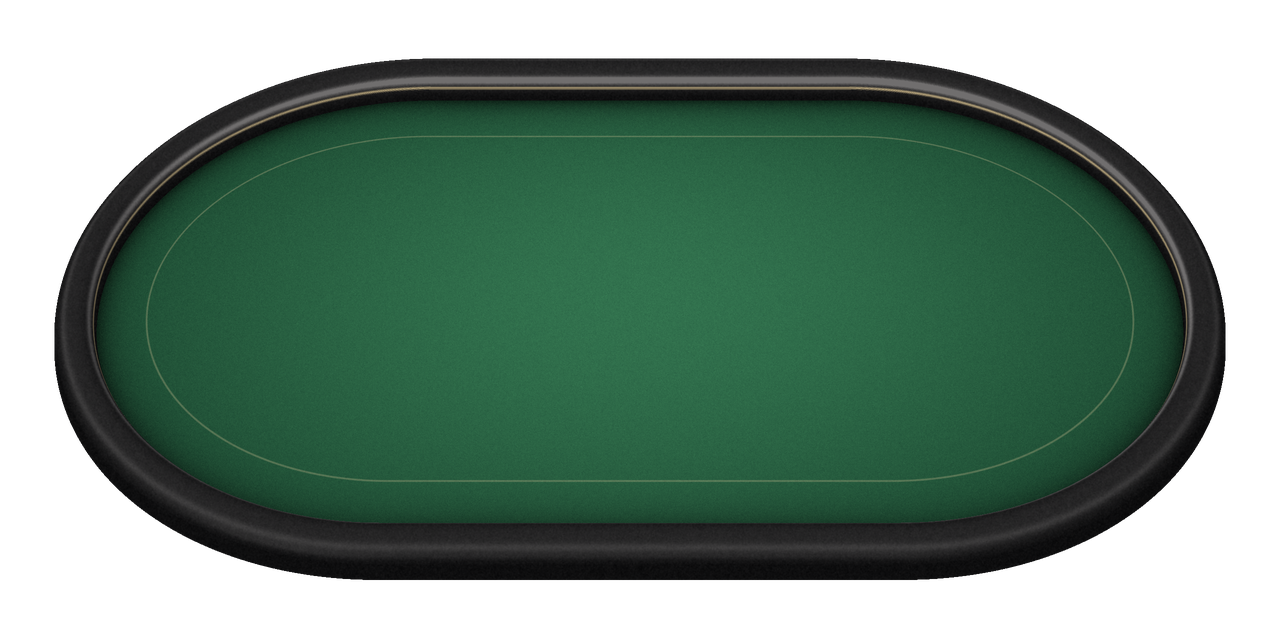
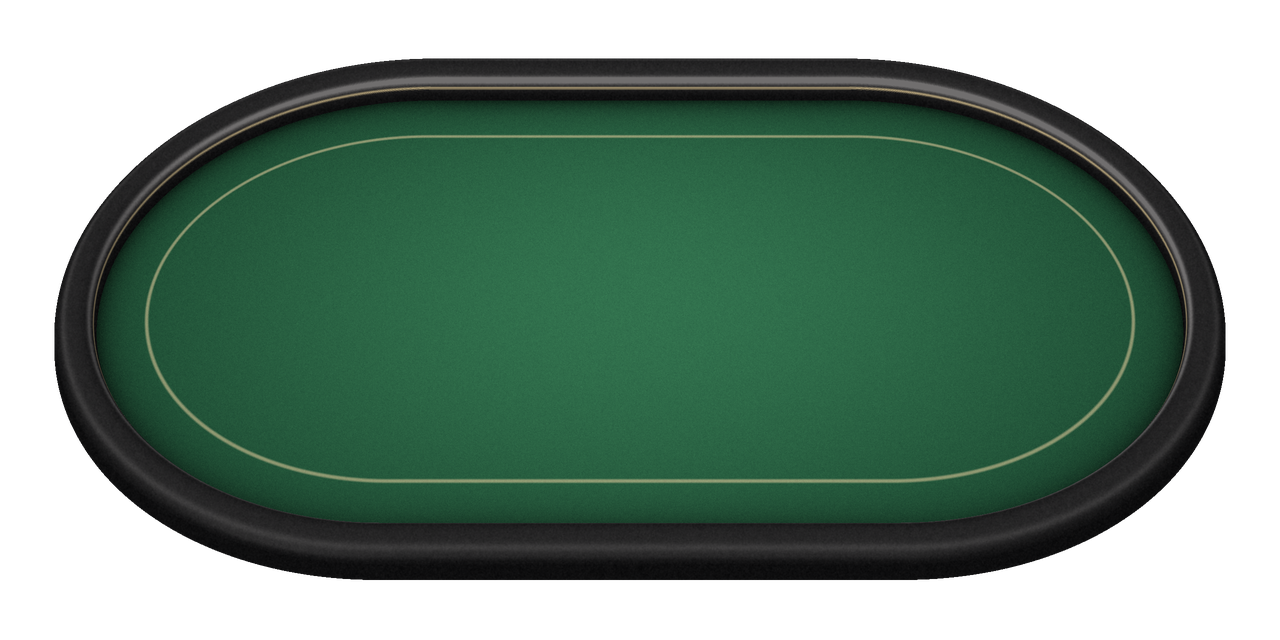
feat(lab): ClubGG-style cards, standout seats and a clear felt line
From Hemal's review of the Salon preview.

Cards take ClubGG's layout on the Salon's ivory stock: a tall condensed
rank in Oswald with a small suit under it and the suit again, large, in
the far corner, so a card reads by its shape from across the table. Board
cards are a size up on desktop.

Seats stand off the table instead of lying on it. The plate is a step
lighter than the rail, ringed in black before its champagne edge, and
throws a long shadow; the monogram becomes a bezelled medallion breaking
out of the plate's end, and the card backs are larger and edged.

The Salon render prints the betting line wider and stronger, so the
felt carries a clear champagne outline like ClubGG's. The house skin is
unchanged.

diff --git a/app/lab/salon/salon.module.css b/app/lab/salon/salon.module.css
@@ -25,6 +25,7 @@
 
   --salon-display: var(--font-salon-display), 'Bodoni Moda', Georgia, serif;
   --salon-sans: var(--font-salon-sans), 'Hanken Grotesk', system-ui, sans-serif;
+  --salon-index: var(--font-salon-index), 'Oswald', 'Arial Narrow', sans-serif;
 
   position: relative;
   isolation: isolate;
@@ -393,54 +394,73 @@
     inset 0 0 0 4px oklch(0.6 0.07 80 / 0.5);
 }
 
+/*
+ * A seat stands off the table rather than lying on it.
+ *
+ * The plate is a step lighter than the rail it sits on, ringed in black before
+ * the champagne edge so it separates from the leather, and carries a long,
+ * soft shadow. The monogram is a medallion that breaks out of the plate's left
+ * end, the way a portrait does in ClubGG, so the player is the first shape you
+ * find at every seat.
+ */
 .plate {
   position: relative;
   z-index: 1;
   display: flex;
-  min-width: 136px;
+  min-width: 132px;
   align-items: center;
-  gap: 10px;
-  padding: 5px 18px 5px 5px;
-  border: 1px solid var(--salon-hairline);
-  border-radius: 3px;
-  background: linear-gradient(180deg, oklch(0.227 0.006 157), oklch(0.166 0.004 165));
+  gap: 8px;
+  margin-left: 22px;
+  padding: 7px 16px 7px 34px;
+  border: 1px solid oklch(0.789 0.066 86 / 0.5);
+  border-radius: 4px;
+  background: linear-gradient(180deg, oklch(0.31 0.008 157), oklch(0.2 0.006 160));
   box-shadow:
-    0 10px 24px -10px oklch(0 0 0 / 0.8),
-    inset 0 1px 0 oklch(0.896 0.044 90 / 0.08);
+    0 0 0 1px oklch(0 0 0 / 0.65),
+    0 16px 30px -8px oklch(0 0 0 / 0.95),
+    0 4px 10px -2px oklch(0 0 0 / 0.6),
+    inset 0 1px 0 oklch(0.896 0.044 90 / 0.18);
 }
 
 .plateActing {
-  border-color: var(--salon-gold);
+  border-color: var(--salon-gold-lit);
   box-shadow:
-    0 0 0 4px oklch(0.789 0.066 86 / 0.13),
-    0 12px 28px -10px oklch(0 0 0 / 0.85),
-    inset 0 1px 0 oklch(0.896 0.044 90 / 0.14);
+    0 0 0 1px oklch(0 0 0 / 0.65),
+    0 0 0 5px oklch(0.789 0.066 86 / 0.22),
+    0 0 26px 2px oklch(0.789 0.066 86 / 0.28),
+    0 16px 30px -8px oklch(0 0 0 / 0.95),
+    inset 0 1px 0 oklch(0.896 0.044 90 / 0.24);
 }
 
-/* A monogram struck on dark enamel, inside a double champagne ring. */
+/* A monogram struck on dark enamel, in a champagne bezel, off the plate's end. */
 .monogram {
+  position: absolute;
+  top: 50%;
+  left: -24px;
   display: grid;
-  width: 38px;
-  height: 38px;
-  flex-shrink: 0;
+  width: 50px;
+  height: 50px;
   place-items: center;
   border-radius: 50%;
+  translate: 0 -50%;
   font-family: var(--salon-display);
-  font-size: 18px;
+  font-size: 22px;
   font-style: italic;
   color: var(--salon-gold-lit);
-  background: radial-gradient(circle at 50% 35%, oklch(0.299 0.01 151), oklch(0.189 0.004 165));
+  background: radial-gradient(circle at 50% 32%, oklch(0.34 0.012 151), oklch(0.18 0.004 165));
   box-shadow:
-    inset 0 0 0 1px oklch(0.789 0.066 86 / 0.6),
-    inset 0 0 0 3px oklch(0.189 0.004 165),
-    inset 0 0 0 4px oklch(0.789 0.066 86 / 0.22);
+    0 0 0 1px oklch(0 0 0 / 0.7),
+    0 0 0 3px oklch(0.82 0.06 88),
+    0 0 0 4px oklch(0 0 0 / 0.5),
+    0 10px 20px -4px oklch(0 0 0 / 0.9),
+    inset 0 2px 4px oklch(1 0 0 / 0.12);
 }
 
 .name {
   font-size: 13px;
-  font-weight: 500;
+  font-weight: 600;
   line-height: 1.15;
-  color: var(--salon-ink);
+  color: oklch(0.975 0.01 86);
 }
 
 .out {
@@ -451,9 +471,9 @@
 /* Time to act, as a hairline draining along the foot of the plate. */
 .timer {
   position: absolute;
-  right: 4px;
+  right: 5px;
   bottom: -1px;
-  left: 4px;
+  left: 30px;
   height: 2px;
   background: oklch(0.789 0.066 86 / 0.18);
 }
@@ -496,7 +516,8 @@
 
 .callout-left {
   top: 50%;
-  right: calc(100% + 10px);
+  /* Clear of the medallion that hangs off the plate's left end. */
+  right: calc(100% + 34px);
   translate: 0 -50%;
 }
 
@@ -524,96 +545,110 @@
 
 .cardBack {
   display: block;
-  width: 32px;
-  height: 45px;
-  border: 1px solid oklch(0.789 0.066 86 / 0.6);
-  border-radius: 3px;
+  width: 36px;
+  height: 51px;
+  border: 1px solid oklch(0.82 0.06 88 / 0.75);
+  border-radius: 4px;
   background:
-    repeating-radial-gradient(circle at 50% 50%, oklch(0.789 0.066 86 / 0.3) 0 1px, transparent 1px 3.5px),
-    oklch(0.243 0.035 159);
+    repeating-radial-gradient(circle at 50% 50%, oklch(0.789 0.066 86 / 0.32) 0 1px, transparent 1px 3.5px),
+    oklch(0.27 0.04 159);
   box-shadow:
-    inset 0 0 0 2px oklch(0.243 0.035 159),
-    inset 0 0 0 3px oklch(0.789 0.066 86 / 0.35),
-    0 4px 10px -2px oklch(0 0 0 / 0.7);
+    0 0 0 1px oklch(0 0 0 / 0.6),
+    inset 0 0 0 2px oklch(0.27 0.04 159),
+    inset 0 0 0 3px oklch(0.789 0.066 86 / 0.4),
+    0 8px 16px -4px oklch(0 0 0 / 0.85);
 }
 
 /* ---- Cards ----------------------------------------------------------------- */
 
+/*
+ * ClubGG's layout on the Salon's stock.
+ *
+ * A tall condensed rank in the corner with a small suit under it, and the suit
+ * again, large, in the opposite corner — so the card is read by its shape from
+ * across the table rather than by squinting at an index. The stock stays
+ * ivory and the red stays the Salon's.
+ *
+ * Positions are percentages of the card and sizes are ems of its font size, so
+ * one size class scales the whole face.
+ */
 .card {
   position: relative;
   display: block;
   flex-shrink: 0;
-  border-radius: 5px;
+  overflow: hidden;
+  border-radius: 6px;
   color: oklch(0.188 0.009 85);
-  background: linear-gradient(180deg, oklch(0.985 0.011 90), oklch(0.93 0.024 86));
+  background: linear-gradient(180deg, oklch(0.985 0.011 90), oklch(0.935 0.022 86));
   box-shadow:
-    0 0 0 1px oklch(0 0 0 / 0.25),
+    0 0 0 1px oklch(0 0 0 / 0.28),
+    inset 0 0 0 1px oklch(1 0 0 / 0.6),
     0 1px 0 oklch(0.823 0.034 85),
-    0 10px 20px -8px oklch(0 0 0 / 0.8);
+    0 12px 22px -8px oklch(0 0 0 / 0.8);
 }
 
 .red {
-  color: oklch(0.464 0.148 25);
+  color: oklch(0.5 0.17 25);
 }
 
-/* Each part is placed in its own ems, all derived from the card's font size. */
 .rank {
   position: absolute;
-  top: 0.28em;
-  left: 0.33em;
-  font-family: var(--salon-display);
-  font-size: 1em;
-  font-weight: 600;
+  top: 4%;
+  left: 9%;
+  font-family: var(--salon-index);
+  font-size: 1.6em;
+  font-weight: 500;
   line-height: 1;
+  letter-spacing: -0.04em;
 }
 
 .suit {
   position: absolute;
-  top: 2.25em;
-  left: 0.6em;
-  font-size: 0.62em;
+  top: 43%;
+  left: 10%;
+  font-size: 0.95em;
   line-height: 1;
 }
 
 .pip {
   position: absolute;
-  right: 0.3em;
-  bottom: 0.22em;
-  font-size: 1.35em;
+  right: 5%;
+  bottom: 1%;
+  font-size: 2.35em;
   line-height: 1;
 }
 
 /* Sized by font-size, so every part of the face scales together. */
 .card-board {
-  width: 40px;
-  height: 56px;
-  font-size: 15px;
+  width: 44px;
+  height: 62px;
+  font-size: 15.5px;
 }
 
 .card-hero {
   width: 60px;
   height: 84px;
-  font-size: 22px;
+  font-size: 21px;
 }
 
 .card-fan {
   width: 64px;
   height: 90px;
-  font-size: 24px;
+  font-size: 22.5px;
 }
 
 @media (min-width: 640px) {
   .card-board {
-    width: 56px;
-    height: 78px;
-    font-size: 21px;
+    width: 66px;
+    height: 92px;
+    font-size: 23px;
   }
 
   .card-hero {
-    width: 76px;
-    height: 106px;
-    font-size: 28px;
-    border-radius: 6px;
+    width: 78px;
+    height: 110px;
+    font-size: 27.5px;
+    border-radius: 7px;
   }
 }
 

diff --git a/app/lab/salon/SalonLab.tsx b/app/lab/salon/SalonLab.tsx
@@ -332,9 +332,8 @@ function initial(name: string) {
 }
 
 /**
- * A seat: the cards or nothing above, and a plate with a monogram. The plate is
- * milled like the rest of the room — dark, a champagne hairline, and a lit top
- * edge — with the monogram struck in the didone rather than set in the sans.
+ * A seat: the cards or nothing above, and a plate with a monogram medallion.
+ * Everything here is lifted off the table — see `.plate` for how.
  */
 function Seat({
   player,
@@ -352,7 +351,7 @@ function Seat({
     <div className={cn('relative flex flex-col items-center', player.folded && styles.out)}>
       <div className={cn('flex items-end justify-center', hero ? '-mb-4' : '-mb-3')}>
         {player.folded ? (
-          <span className="block h-[45px]" />
+          <span className="block h-[51px]" />
         ) : hero ? (
           HERO_CARDS.map((card, i) => (
             <span key={i} className={cn(i === 0 ? '-rotate-4' : 'rotate-4 -ml-3')}>
@@ -367,7 +366,7 @@ function Seat({
         )}
       </div>
 
-      <div className={cn(styles.plate, acting && styles.plateActing, hero && 'min-w-40')}>
+      <div className={cn(styles.plate, acting && styles.plateActing, hero && 'min-w-38')}>
         <span className={styles.monogram}>{initial(player.name)}</span>
         <span className="flex flex-col gap-0.5">
           <span className={styles.name}>{player.name}</span>

diff --git a/app/lab/salon/page.tsx b/app/lab/salon/page.tsx
@@ -1,10 +1,10 @@
 import type { Metadata } from 'next'
-import { Bodoni_Moda, Hanken_Grotesk } from 'next/font/google'
+import { Bodoni_Moda, Hanken_Grotesk, Oswald } from 'next/font/google'
 import { SalonLab } from './SalonLab'
 
 /*
  * The Salon's lettering, loaded here rather than in the root layout so nothing
- * outside this route pays for two more faces before the look is signed off.
+ * outside this route pays for the extra faces before the look is signed off.
  */
 const display = Bodoni_Moda({
   variable: '--font-salon-display',
@@ -15,6 +15,17 @@ const display = Bodoni_Moda({
 const sans = Hanken_Grotesk({
   variable: '--font-salon-sans',
   subsets: ['latin'],
+})
+
+/*
+ * Card indices. A condensed face lets the rank stand tall in the corner, the
+ * way ClubGG prints it, so a card reads from across the table at a glance —
+ * which the didone, for all its elegance, did not.
+ */
+const index = Oswald({
+  variable: '--font-salon-index',
+  subsets: ['latin'],
+  weight: ['500'],
 })
 
 /**
@@ -33,7 +44,7 @@ export const metadata: Metadata = {
 
 export default function Page() {
   return (
-    <div className={`${display.variable} ${sans.variable} flex flex-1 flex-col`}>
+    <div className={`${display.variable} ${sans.variable} ${index.variable} flex flex-1 flex-col`}>
       <SalonLab />
     </div>
   )

diff --git a/scripts/render-table-desktop.py b/scripts/render-table-desktop.py
@@ -53,13 +53,15 @@ RAIL_DARK = np.array([8, 8, 9], np.float32)
 RAIL_LIT = np.array([112, 110, 110], np.float32)
 
 # What changes between skins: the cloth, the betting line, and whether the rail
-# carries a metal inlay. `line_strength` is how strongly the line is printed.
+# carries a metal inlay. `line_strength` is how strongly the line is printed
+# and `line_width` how wide, in plane units.
 SKINS = {
     'house': {
         'felt_edge': [22, 66, 26],
         'felt_hot': [70, 142, 64],
         'line': [150, 196, 140],
         'line_strength': 0.22,
+        'line_width': 0.9,
         'inlay': None,
         'out': 'public/table-desktop.png',
     },
@@ -67,7 +69,10 @@ SKINS = {
         'felt_edge': [15, 48, 32],
         'felt_hot': [50, 114, 78],
         'line': [214, 196, 150],
-        'line_strength': 0.3,
+        # Printed boldly enough to read from across the room: the table's outline
+        # is what holds the seat ring together once the plates stand off it.
+        'line_strength': 0.6,
+        'line_width': 1.8,
         'inlay': [205, 184, 138],
         'out': 'public/table-desktop-salon.png',
     },
@@ -194,7 +199,7 @@ def main():
     felt = FELT_EDGE + (FELT_HOT - FELT_EDGE) * spot[..., None]
     occlusion = 1.0 - 0.6 * np.exp(np.minimum(d, 0) / 14)
     felt *= occlusion[..., None]
-    line = np.clip(1.4 - np.abs(d + LINE_INSET) / 0.9, 0, 1) * skin['line_strength']
+    line = np.clip(1.4 - np.abs(d + LINE_INSET) / skin['line_width'], 0, 1) * skin['line_strength']
     felt += (LINE - felt) * line[..., None]
     weave = (
         rng.normal(0, 3.2, (H, W)).astype(np.float32)
